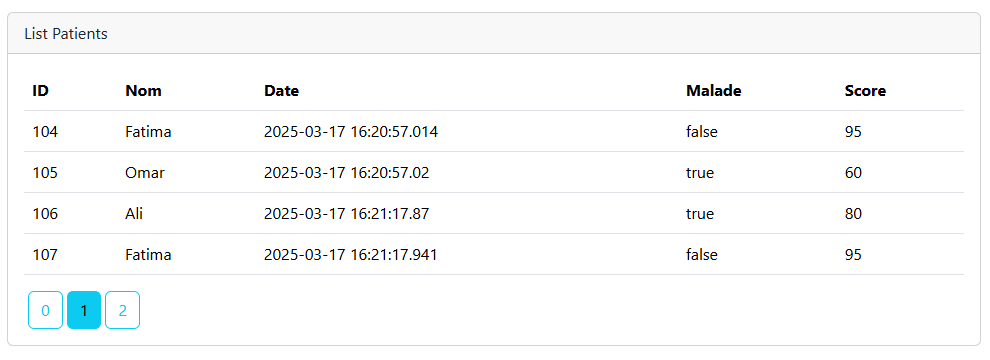
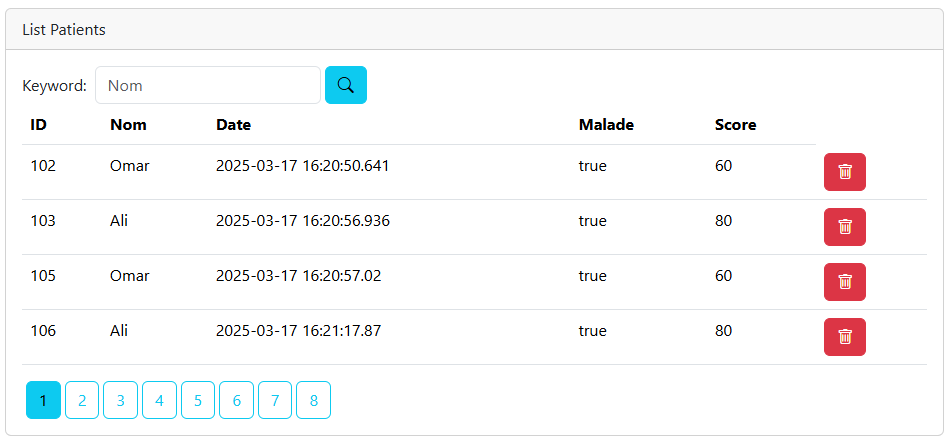
modifier README.MD; ajouter suppression

diff --git a/src/main/resources/templates/patients.html b/src/main/resources/templates/patients.html
@@ -41,7 +41,7 @@
                         <a onclick="javascript:return confirm('Etes vous sure?')"
                            th:href="@{delete(id=${p.id}, keyword=${keyword}, page=${currentPage})}"
                            class="btn btn-danger">
-                            <i class="bi bi-search"></i>
+                            <i class="bi bi-trash"></i>
                         </a>
                     </td>
                 </tr>

diff --git a/src/main/java/khouya/site/Hopital/web/PatientController.java b/src/main/java/khouya/site/Hopital/web/PatientController.java
@@ -35,4 +35,9 @@ public class PatientController {
         patientRepo.deleteById(id);
         return "redirect:/index?page=" + page + "&keyword=" + keyword;
     }
+
+    @GetMapping("/")
+    public String home(){
+        return "redirect:/index";
+    }
 }

diff --git a/README.MD b/README.MD
@@ -4,7 +4,7 @@ Réalisé par ``Oussama KHOUYA``
 L'objectif de cette activité est de créer une page web pour gérer des patients à l'aide du moteur de template Thymeleaf.
 
 ### Créer un project springboot avec les bibliothèque Spring Web, Thylemeaf et Spring Data JPA, Mysql, lombok
-![img.png](img.png)
+![img.png](img/img.png)
 
 ### Créer l'entité Patient, son repositories et ajouter des patients à la BD
 ```java
@@ -85,7 +85,7 @@ public class PatientController {
 </body>
 </html>
 ```
-![img_1.png](img_1.png)
+![img_1.png](img/img_1.png)
 ### Ajouter la pagination au tableau
 - On ajoute ma methode **PageRequest.of(page, size)** à notre code
 ```java
@@ -117,8 +117,8 @@ public class PatientController {
                 </li>
             </ul>
 ```
-![img_2.png](img_2.png)
-### Recherhcer un patient par nom
+![img_2.png](img/img_2.png)
+### Recherher un patient par nom
 - On ajoute la method **findPatientsByNomContaining** dans le repository
 ```java
 public interface PatientRepository extends JpaRepository<Patient, Long> {
@@ -155,5 +155,27 @@ public interface PatientRepository extends JpaRepository<Patient, Long> {
     <button type="submit" class="btn btn-info">Chercher</button>
 </form>
 ```
-![img_3.png](img_3.png)
+![img_3.png](img/img_3.png)
 
+### Supprimer un patient
+- On ajoute une méthode pour la suppression
+````java
+ @GetMapping("/delete")
+public String delete(Long id, String keyword, int page){
+    patientRepo.deleteById(id);
+    return "redirect:/index?page=" + page + "&keyword=" + keyword;
+}
+````
+- On ajoute une boutton delete dans chaque ligne du tableau
+````html
+  <td>
+    <a onclick="javascript:return confirm('Etes vous sure?')"
+       th:href="@{delete(id=${p.id}, keyword=${keyword}, page=${currentPage})}"
+       class="btn btn-danger">
+        <i class="bi bi-trash"></i>
+    </a>
+</td>
+````
+![img.png](img.png)
+
+![img_1.png](img_1.png)
